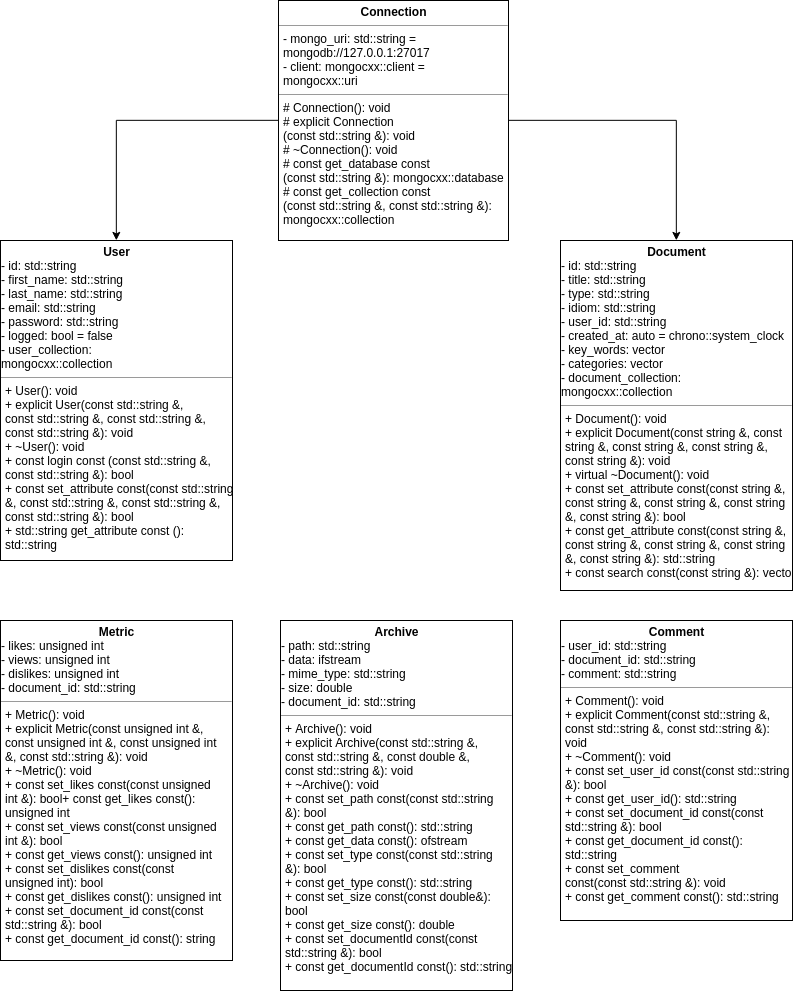
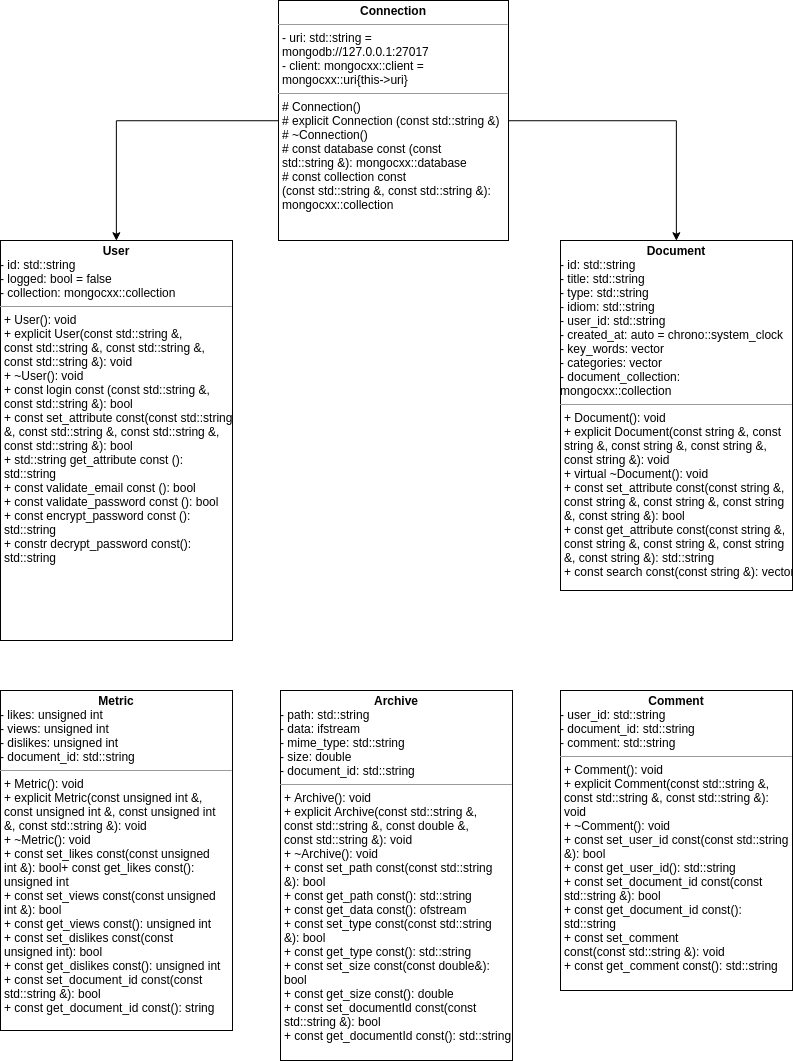
Installation script and sequency diagram added

diff --git a/source/classes/connection/connection.hpp b/source/classes/connection/connection.hpp
@@ -2,83 +2,80 @@
 
 #define CONNECTION
 
-/// Mongo client
 #include <mongocxx/client.hpp>
 
-/// Mongo URI
 #include <mongocxx/uri.hpp>
 
-/// Mongo instance
 #include <mongocxx/instance.hpp>
 
 class Connection
 {
 private:
-	///
-	/// https://docs.mongodb.com/manual/reference/connection-string/
-	///
-	std::string mongo_uri{"mongodb://127.0.0.1:27017"};
+	//
+	// https://docs.mongodb.com/manual/reference/connection-string/
+	//
+	std::string uri{"mongodb://127.0.0.1:27017"};
 
-	///
-	/// Note that client is not thread-safe, for each thread its necessary to
-	/// give its own mongocxx::client. Don't create two or more clients derived
-	/// from the same mongocxx::client in one (e.g, std::mutex) thread.
-	///
-	/// https://mongodb.github.io/mongo-cxx-driver/mongocxx-v3/thread-safety/
-	///
-	mongocxx::client client{mongocxx::uri{this->mongo_uri}};
+	//
+	// Note that client is not thread-safe, for each thread its necessary to
+	// give its own client. Don't create two or more clients derived from the
+	// same client in one thread, e.g, std::mutex.
+	//
+	// https://mongodb.github.io/mongo-cxx-driver/mongocxx-v3/thread-safety/
+	//
+	mongocxx::client client{mongocxx::uri{this->uri}};
 
 protected:
-	///
-	/// Constructs a default connection to Mongo
-	///
-	/// http://mongocxx.org/api/mongocxx-3.3.0/classmongocxx_1_1client.html
-	///
+	//
+	// Default connection to Mongo
+	//
+	// http://mongocxx.org/api/mongocxx-3.3.0/classmongocxx_1_1client.html
+	//
 	Connection();
 
-	///
-	/// Constructs a personalized connection to Mongo
-	///
-	/// @param mongodb_uri
-	///   A Mongo URI representing the connection parameters
-	///
-	/// Additional options can be specified via options parameter
-	///
-	/// http://mongocxx.org/api/mongocxx-3.3.0/classmongocxx_1_1client.html
-	///
-	explicit Connection(const std::string &mongodb_uri);
+	//
+	// Personalized connection to Mongo
+	//
+	// @param uri
+	//   An URI representing the connection parameters
+	//
+	// Additional options can be specified via options parameter
+	//
+	// http://mongocxx.org/api/mongocxx-3.3.0/classmongocxx_1_1client.html
+	//
+	explicit Connection(const std::string &);
 
-	///
-	/// Destroys a connection
-	///
+	//
+	// Destroys a connection
+	//
 	~Connection();
 
-	///
-	/// Get a database
-	///
-	/// @param database_name
-	///   A database name representing a valid Mongo database
-	///
-	/// A database cannot be obtained from a temporary client object
-	///
-	/// http://mongocxx.org/api/mongocxx-v3/classmongocxx_1_1database.html
-	///
-	/// https://stackoverflow.com/questions/10897799/temporary-objects-when-are-they-created-how-do-you-recognise-them-in-code
-	///
-	const mongocxx::database get_database(const std::string &database_name) const;
+	//
+	// Get a database
+	//
+	// @param database_name
+	//   A database name representing a valid Mongo database
+	//
+	// A database cannot be obtained from a temporary client object
+	//
+	// http://mongocxx.org/api/mongocxx-v3/classmongocxx_1_1database.html
+	//
+	// https://stackoverflow.com/questions/10897799/temporary-objects-when-are-they-created-how-do-you-recognise-them-in-code
+	//
+	const mongocxx::database database(const std::string &) const;
 
-	///
-	/// Get a collection
-	///
-	/// @param database_name
-	///   A database name representing a valid Mongo database
-	///
-	/// @param collection_name
-	///   A collection name representing a valid Mongo collection
-	///
-	/// http://mongocxx.org/api/mongocxx-v3/classmongocxx_1_1collection.html
-	///
-	const mongocxx::collection get_collection(const std::string &database_name, const std::string &collection_name) const;
+	//
+	// Get a collection from a database
+	//
+	// @param database_name
+	//   A database name representing a valid Mongo database
+	//
+	// @param collection_name
+	//   A collection name representing a valid Mongo collection from a database
+	//
+	// http://mongocxx.org/api/mongocxx-v3/classmongocxx_1_1collection.html
+	//
+	const mongocxx::collection collection(const std::string &, const std::string &) const;
 };
 
 #endif // CONNECTION

diff --git a/source/classes/connection/connection.cpp b/source/classes/connection/connection.cpp
@@ -4,12 +4,12 @@
 
 #define CONNECTION_INSTANCE
 
-///
-/// Only one instance must exist for the entirety of the program
-///
-/// Don't use static, nest the instance in a class or place the
-/// instance in the HPP file, it can cause segmentation fault
-///
+//
+// Only one instance must exist for the entirety of the program
+//
+// Don't use static, nest the instance in a class or place the
+// instance in the HPP file. It can cause segmentation fault
+//
 mongocxx::instance instance;
 
 #endif // CONNECTION_INSTANCE
@@ -18,23 +18,23 @@ Connection::Connection()
 {
 }
 
-Connection::Connection(const std::string &mongodb_uri)
+Connection::Connection(const std::string &uri)
 {
-	this->mongo_uri = mongo_uri;
+	this->uri = uri;
 
-	this->client = mongocxx::client{mongocxx::uri{mongodb_uri}};
+	this->client = mongocxx::client{mongocxx::uri{this->uri}};
 }
 
 Connection::~Connection()
 {
 }
 
-const mongocxx::database Connection::get_database(const std::string &database_name) const
+const mongocxx::database Connection::database(const std::string &database_name) const
 {
 	return this->client[database_name];
 }
 
-const mongocxx::collection Connection::get_collection(const std::string &database_name, const std::string &collection_name) const
+const mongocxx::collection Connection::collection(const std::string &database_name, const std::string &collection_name) const
 {
-	return this->get_database(database_name)[collection_name];
+	return this->database(database_name)[collection_name];
 }

diff --git a/source/main.cpp b/source/main.cpp
@@ -2,21 +2,19 @@
 
 int main(const int argc, const char *argv[])
 {
-	/// Change the methods visibility on client to get documents from the Mongo
-
-	/// Create a connection
+	// Create a connection
 	Connection connection;
 
-	/// Get a database
-	connection.get_database("proto-buffer");
+	// Get a database
+	connection.database("proto-buffer");
 
-	/// Get a database and select a collection from the database
-	mongocxx::collection collection = connection.get_collection("proto-buffer", "users");
+	// Get a database and select a collection from the chosen database
+	mongocxx::collection collection = connection.collection("proto-buffer", "user");
 
-	/// Get documents from the selected collection
+	// Get all documents from the selected collection
 	mongocxx::cursor cursor = collection.find({});
 
-	/// Show all documents present on cursor
+	// Show all documents in cursor
 	for (auto document : cursor)
 	{
 		std::cout << bsoncxx::to_json(document) << "\n";

diff --git a/source/headers.hpp b/source/headers.hpp
@@ -1,10 +1,7 @@
-/// Default I/O
 #include <iostream>
 
-/// JSON
 #include <bsoncxx/json.hpp>
 
 #include <mongocxx/stdx.hpp>
 
-/// Mongo connection
 #include "classes/connection/connection.hpp"

diff --git a/README.md b/README.md
@@ -2,8 +2,7 @@
 
 ---
 
-[![Codacy Badge](https://api.codacy.com/project/badge/Grade/8293993c1ae54528aadacc58352d6cb7)](https://app.codacy.com/app/Sphinxs/Proto-buffer?utm_source=github.com&utm_medium=referral&utm_content=Sphinxs/Proto-buffer&utm_campaign=Badge_Grade_Dashboard) [![PRs Welcome](https://img.shields.io/badge/PRs-welcome-brightgreen.svg?style=flat-square)](http://makeapullrequest.com)  ![GitHub last commit (branch)](https://img.shields.io/github/last-commit/sphinxs/proto-buffer/dev.svg) [![Contributor Covenant](https://img.shields.io/badge/Contributor%20Covenant-v1.4%20adopted-ff69b4.svg)](code-of-conduct.md)
-
+[![Codacy Badge](https://api.codacy.com/project/badge/Grade/8293993c1ae54528aadacc58352d6cb7)](https://app.codacy.com/app/Sphinxs/Proto-buffer?utm_source=github.com&utm_medium=referral&utm_content=Sphinxs/Proto-buffer&utm_campaign=Badge_Grade_Dashboard) [![PRs Welcome](https://img.shields.io/badge/PRs-welcome-brightgreen.svg?style=flat-square)](http://makeapullrequest.com)  ![GitHub last commit (branch)](https://img.shields.io/github/last-commit/sphinxs/proto-buffer/dev.svg) [![Contributor Covenant](https://img.shields.io/badge/Contributor%20Covenant-v1.4%20adopted-ff69b4.svg)]([code-of-conduct.md](https://www.contributor-covenant.org/version/1/4/code-of-conduct))
 
 ---
 
@@ -16,12 +15,12 @@ Document share application written in C++. More details in the [presentation](do
 Install the [Docker](https://docs.docker.com/install/) and [Docker Compose](https://docs.docker.com/compose/install/).
 
 ```sh
-# Clone this repository
-$ git clone https://github.com/Sphinxs/Proto-buffer
+# Clone the repository
+$ git clone https://github.com/Sphinxs/Proto-buffer --depth=1
 ```
 
 ```sh
-# Open this repository
+# Open the repository
 $ cd Proto-buffer
 ```
 
@@ -32,9 +31,9 @@ $ docker-compose up
 
 <details> <summary><strong>Available containers</strong></summary>
 
-| name    | description    |
-| ------- | -------------- |
-| mongo-c | mongo database |
+| name            | description    |
+| --------------- | -------------- |
+| mongo-container | Mongo database |
 
 </details> <!-- Available containers -->
 
@@ -43,28 +42,28 @@ $ docker-compose up
 <details> <summary><strong>Compiler</strong></summary>
 
 ```sh
-# Install the GCC, G++, CMake and PKG
+# Install the Build Essential, GCC, G++, CMake and PKG
 $ apt install build-essential pkg-config gcc g++ cmake
 ```
 
 </details> <!-- Compiler -->
 
-
-
-
-
-
-
 <details> <summary><strong>Mongo driver</strong></summary>
 
-The Mongo CXX is the Mongo driver for C++ language. The Mongo CXX driver builds on top of the Mongo C driver, the Mongo driver for C language. If incompatible versions of Mongo C and Mongo CXX are installed, it can cause conflicts in the Mongo CXX compilation. The Mongo C version used here is the 1.13.0 and the Mongo CXX version used here its the 3.3.0
+The Mongo CXX is the Mongo driver for the C++ language. The Mongo CXX driver builds on top of the Mongo C driver, the Mongo driver for the C language.
+
+If incompatible versions of Mongo C / Mongo CXX are installed, conflicts can happen. The Mongo C version compiled here is the 1.13.0 and the Mongo CXX version is the 3.3.0
+
+The code of both libraries can be found in */usr/local/include* and the shared libraries in */usr/local/lib*.
+
+You can also install throught the available shell script [here](./install.sh), run as `sudo`.
 
 <details> <summary><strong>Mongo C</strong></summary>
 
 <details> <summary><strong>Install</strong></summary>
 
 ```sh
-# Get the Mongo C driver from Github
+# Get the driver from Github
 $ wget -c https://github.com/mongodb/mongo-c-driver/archive/1.13.0.zip
 ```
 
@@ -79,7 +78,7 @@ $ mkdir ./mongo-c-driver-1.13.0/cmake-build
 ```
 
 ```sh
-# Open the the subfolder cmake-build
+# Open the subfolder cmake-build
 $ cd ./mongo-c-driver-1.13.0/cmake-build
 ```
 
@@ -89,7 +88,7 @@ $ apt install libssl-dev libsasl2-dev
 ```
 
 ```sh
-# Configure the compiler
+# Configure driver installation
 $ cmake -DENABLE_AUTOMATIC_INIT_AND_CLEANUP=OFF ..
 ```
 
@@ -155,8 +154,6 @@ $ sudo make
 $ sudo make install
 ```
 
-The code of both libraries can be found in */usr/local/include* and the shared libraries in */usr/local/lib*.
-
 </details> <!-- Install -->
 
 </details> <!-- Mongo CXX -->
@@ -165,8 +162,8 @@ The code of both libraries can be found in */usr/local/include* and the shared l
 
 #### License
 
-The [Proto Buffer](LICENSE) license was created based on [MIT](https://choosealicense.com/licenses/mit/) license and on [Creative Commons 4.0](https://tldrlegal.com/license/creative-commons-attribution-noderivatives-4.0-international-(cc-by-nd-4.0)).
+The license can be find [here](LICENSE).
 
 #### Contribute
 
-See the [project](https://github.com/Sphinxs/Proto-buffer/projects/1) to contribute to the project.
+Project [board](https://github.com/Sphinxs/Proto-buffer/projects/1).
